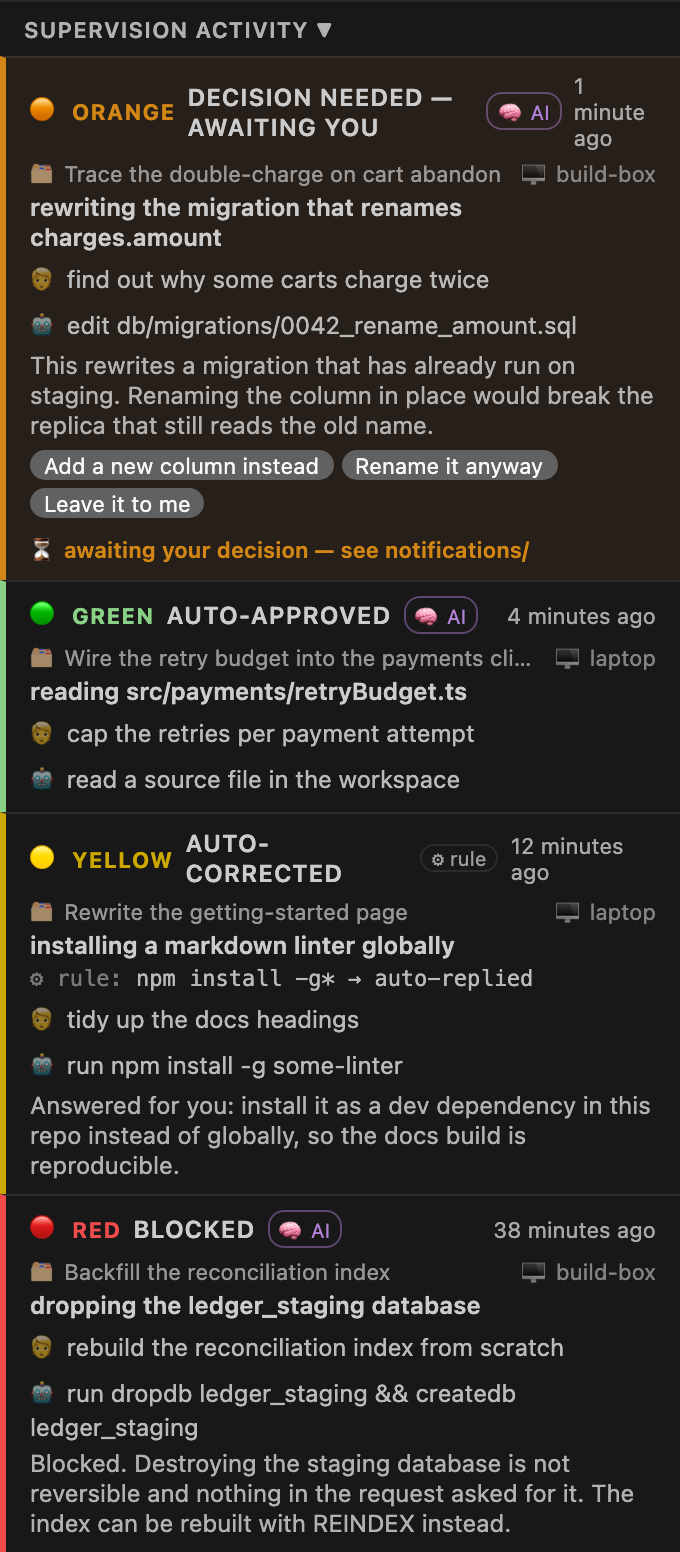
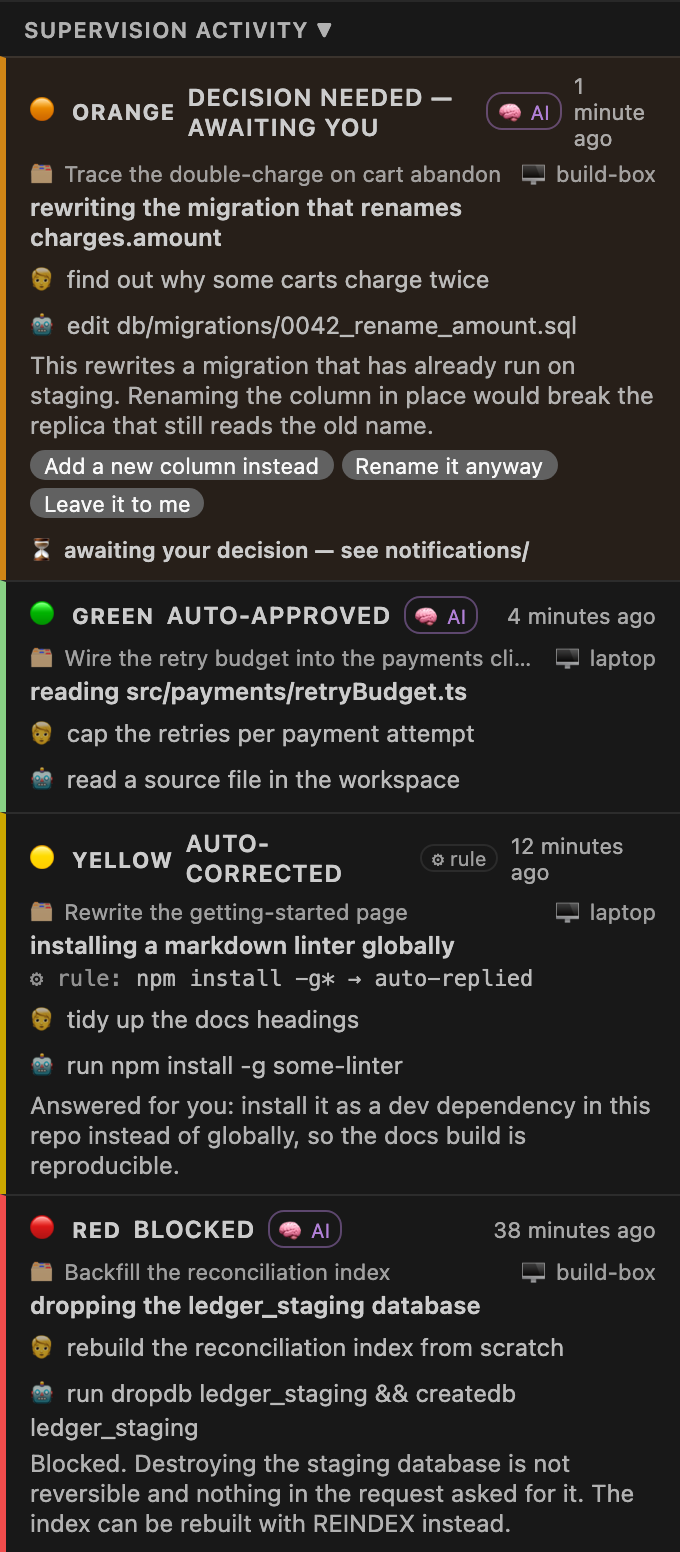
Stop painting the traffic-light labels with chart colours
The four labels in the supervision feed took their colour from the theme's
`charts-*` palette, which is a set of chart *fill* colours: picked to be
distinguishable from each other, never to be read against a background. On
Light Modern none of the four cleared the 4.5:1 that normal-size text needs —
yellow sat at 2.70:1 and orange at 2.77:1, worse than the hardcoded hex it
replaced.

So the colour moves to where a fill belongs. The left border keeps the light's
colour and the emoji dot beside it always did, while the words themselves get
`editor-foreground` and become readable: 10.55:1 on light, 11.06:1 on dark. The
same swap fixes the awaiting badge and the failed card, and the "you:" line
moves to `textLink-foreground`, which is the palette's blue for text.

While in there, the feed's muted lines that stacked opacity on an already-muted
colour go from 0.6 to 0.75, and the session host stops multiplying its parent's
dimming.

WebviewContrast.test.ts is the part that keeps this fixed: it reads the colours
out of styles.css and the theme values out of tools/screenshots/themes.mjs,
computes the WCAG ratio for both themes against both panel backgrounds, and
fails under 4.5:1. The old numbers were wrong because nothing was counting them.

diff --git a/src/test/WebviewContrast.test.ts b/src/test/WebviewContrast.test.ts
@@ -1,0 +1,168 @@
+import { describe, it, expect } from 'vitest';
+import * as fs from 'fs';
+import * as path from 'path';
+
+// WCAG 2.1 contrast, computed from the real files: the colours come out of
+// `src/webview/styles.css`, the `--vscode-*` values they resolve to come out of
+// `tools/screenshots/themes.mjs` (VS Code's own Dark Modern / Light Modern defaults).
+//
+// This exists because the traffic-light labels were painted with `--vscode-charts-*`, which are
+// chart *fill* colours: on Light Modern the yellow label sat at 2.70:1 and the orange at 2.77:1
+// against the panel, and nothing measured it, so nothing complained. The numbers below are the
+// check that was missing.
+
+const AA_NORMAL = 4.5;
+
+const ROOT = path.join(__dirname, '..', '..');
+const CSS = fs.readFileSync(path.join(ROOT, 'src', 'webview', 'styles.css'), 'utf8');
+const THEMES_SRC = fs.readFileSync(
+  path.join(ROOT, 'tools', 'screenshots', 'themes.mjs'), 'utf8');
+
+// ── WCAG maths ─────────────────────────────────────────────────────────────
+
+type Rgb = [number, number, number];
+
+function parseHex(hex: string): Rgb {
+  const h = hex.trim().replace('#', '');
+  const full = h.length === 3 ? [...h].map(c => c + c).join('') : h;
+  return [0, 2, 4].map(i => parseInt(full.slice(i, i + 2), 16)) as Rgb;
+}
+
+/** WCAG 2.1 relative luminance. */
+function luminance(hex: string): number {
+  const [r, g, b] = parseHex(hex).map(v => {
+    const c = v / 255;
+    return c <= 0.03928 ? c / 12.92 : Math.pow((c + 0.055) / 1.055, 2.4);
+  });
+  return 0.2126 * r + 0.7152 * g + 0.0722 * b;
+}
+
+function contrast(a: string, b: string): number {
+  const [hi, lo] = [luminance(a), luminance(b)].sort((x, y) => y - x);
+  return (hi + 0.05) / (lo + 0.05);
+}
+
+/** What `opacity: a` on text actually renders as: the colour composited over its background. */
+function fade(fg: string, bg: string, alpha: number): string {
+  const f = parseHex(fg), b = parseHex(bg);
+  return '#' + f
+    .map((v, i) => Math.round(v * alpha + b[i] * (1 - alpha)).toString(16).padStart(2, '0'))
+    .join('');
+}
+
+// ── Reading the two real files ─────────────────────────────────────────────
+
+/** The `--vscode-*` values from themes.mjs, read as text so the test needs no ESM interop. */
+function theme(name: 'dark' | 'light'): Record<string, string> {
+  const block = THEMES_SRC.match(
+    new RegExp(`export const ${name} = \\{([\\s\\S]*?)\\n\\};`))?.[1];
+  expect(block, `themes.mjs exports ${name}`).toBeTruthy();
+  const values: Record<string, string> = {};
+  for (const [, key, value] of (block as string).matchAll(
+    /^\s*'?([\w-]+)'?:\s*'(#[0-9a-fA-F]{3,8})'/gm)) {
+    values[key] = value;
+  }
+  return values;
+}
+
+const THEMES = { dark: theme('dark'), light: theme('light') };
+
+/** The declaration block of a rule, by its exact selector text. */
+function ruleBody(selector: string): string {
+  const escaped = selector.replace(/[.*+?^${}()|[\]\\]/g, '\\$&');
+  const match = CSS.match(new RegExp(`(?:^|\\n)${escaped}[^{}]*\\{([^}]*)\\}`));
+  expect(match, `styles.css has a rule for ${selector}`).toBeTruthy();
+  return (match as RegExpMatchArray)[1];
+}
+
+/** The token a rule paints its text with — or `editor-foreground`, inherited from `body`. */
+function colorToken(body: string): string {
+  return body.match(/color:\s*var\(--vscode-([\w-]+)/)?.[1] ?? 'editor-foreground';
+}
+
+function opacityOf(body: string): number {
+  return Number(body.match(/(?:^|;)\s*opacity:\s*([\d.]+)/)?.[1] ?? '1');
+}
+
+/**
+ * The rendered contrast of one selector's text against one background token, in one theme.
+ * `parent` names an ancestor whose own `opacity` multiplies this one's — CSS opacity compounds.
+ */
+function ratioFor(
+  selector: string, themeName: 'dark' | 'light', bgToken: string, parent?: string,
+): number {
+  const t = THEMES[themeName];
+  const body = ruleBody(selector);
+  const fg = t[colorToken(body)];
+  const bg = t[bgToken];
+  expect(fg, `${themeName} defines ${colorToken(body)}`).toBeTruthy();
+  expect(bg, `${themeName} defines ${bgToken}`).toBeTruthy();
+  const alpha = opacityOf(body) * (parent ? opacityOf(ruleBody(parent)) : 1);
+  return contrast(alpha < 1 ? fade(fg, bg, alpha) : fg, bg);
+}
+
+// Both, because the panel's own rule paints `editor-background` while the sidebar it lives in is
+// `sideBar-background` — and each is the stricter of the pair in one theme.
+const BACKGROUNDS = ['sideBar-background', 'editor-background'] as const;
+
+/** Every selector whose text must clear AA at normal size. All of these are small text. */
+const TEXT: Array<[selector: string, parent?: string]> = [
+  // The four traffic-light labels and the state badge beside them.
+  ['.activity-light'],
+  ['.activity-item.activity-failed .activity-light'],
+  ['.activity-state'],
+  ['.activity-awaiting-badge'],
+  // Muted feed and row text — every one of these dims an already-muted colour.
+  ['.activity-meta'],
+  ['.activity-timeago'],
+  ['.activity-line'],
+  ['.activity-line-label'],
+  ['.activity-you'],
+  ['.activity-note'],
+  ['.activity-session'],
+  ['.activity-session-host', '.activity-session'],
+  ['.tab-time'],
+  ['.preview-path'],
+  ['.preview-time'],
+  ['.about-built'],
+  // Toolbar buttons and the two section toggles, at their resting (dimmed) opacity.
+  ['#menu-btn'],
+  ['#sort-btn'],
+  ['#new-session-btn,\n#new-bob-session-btn'],
+  ['#history-toggle'],
+  ['#activity-toggle'],
+];
+
+describe('webview styles.css: text clears WCAG AA on Dark Modern and Light Modern', () => {
+  for (const themeName of ['dark', 'light'] as const) {
+    for (const bgToken of BACKGROUNDS) {
+      for (const [selector, parent] of TEXT) {
+        it(`${selector.replace(/\n/g, ' ')} on ${themeName} ${bgToken}`, () => {
+          const ratio = ratioFor(selector, themeName, bgToken, parent);
+          expect(
+            Number(ratio.toFixed(2)),
+            `${selector} is ${ratio.toFixed(2)}:1, needs ${AA_NORMAL}:1`,
+          ).toBeGreaterThanOrEqual(AA_NORMAL);
+        });
+      }
+    }
+  }
+
+  // The labels are no longer coloured, so the colour has to still be carried somewhere or the four
+  // lights become one. It is: the left border (here) and the emoji dot main.js writes.
+  it('still tells the four lights apart by the border colour', () => {
+    for (const light of ['green', 'yellow', 'orange', 'red']) {
+      expect(CSS).toMatch(new RegExp(
+        `\\.activity-item\\.activity-${light}\\s*\\{[^}]*border-left-color:\\s*var\\(--vscode-charts-${light}`));
+    }
+  });
+
+  // The regression itself: `charts-*` are fills, and this asserts they are not used as label text
+  // again. (They stay legitimate for the border above and the .status-waiting dot.)
+  it('does not paint the label text from the chart palette', () => {
+    for (const rule of CSS.match(/[^{}]*\.activity-light[^{}]*\{[^}]*\}/g) ?? []) {
+      expect(rule, rule).not.toMatch(/color:\s*var\(--vscode-charts-/);
+    }
+    expect(ruleBody('.activity-awaiting-badge')).not.toContain('--vscode-charts-');
+  });
+});

diff --git a/src/webview/styles.css b/src/webview/styles.css
@@ -829,7 +829,7 @@ button:focus-visible {
   overflow: hidden;
 }
 
-.activity-meta { opacity: 0.6; font-size: 11px; white-space: normal; word-break: break-word; }
+.activity-meta { opacity: 0.75; font-size: 11px; white-space: normal; word-break: break-word; }
 
 .activity-state {
   text-transform: uppercase;
@@ -846,11 +846,17 @@ button:focus-visible {
 }
 
 .activity-head { display: flex; align-items: center; gap: 6px; }
-.activity-light { font-weight: 700; letter-spacing: 0.05em; font-size: 11px; }
-.activity-item.activity-green  .activity-light { color: var(--vscode-charts-green, #3fb950); }
-.activity-item.activity-yellow .activity-light { color: var(--vscode-charts-yellow, #d29922); }
-.activity-item.activity-orange .activity-light { color: var(--vscode-charts-orange, #db6d28); }
-.activity-item.activity-red    .activity-light { color: var(--vscode-charts-red, var(--vscode-errorForeground, #f85149)); }
+
+/* The label is text, so it gets a text colour. `charts-*` are chart *fill* colours — picked to be
+   distinguishable from each other, not to be readable against a background — and on Light Modern
+   none of the four clears 4.5:1 against the panel (yellow 2.70, orange 2.77). The colour lives
+   where a fill belongs instead: the border-left above and the emoji dot beside it. */
+.activity-light {
+  font-weight: 700;
+  letter-spacing: 0.05em;
+  font-size: 11px;
+  color: var(--vscode-editor-foreground);
+}
 
 /* Who decided: a deterministic rule, or the supervisor AI. Both are real interventions, so both
    are listed — this pill is what tells them apart at a glance. */
@@ -876,8 +882,12 @@ button:focus-visible {
 .activity-body { display: flex; flex-direction: column; gap: 3px; }
 .activity-summary { font-weight: 600; word-break: break-word; }
 .activity-line { word-break: break-word; opacity: 0.9; }
-.activity-line-label { opacity: 0.6; }
-.activity-you { color: var(--vscode-charts-blue, #4aa8ff); }
+.activity-line-label { opacity: 0.75; }
+.activity-you {
+  /* textLink, not charts-blue: the link colour is the palette's text-on-background blue and clears
+     4.5:1 on both themes, where the chart blue lands at 4.33 on Light Modern. */
+  color: var(--vscode-textLink-foreground, var(--vscode-charts-blue, #4aa8ff));
+}
 
 /* Which session, on which machine. Muted and one line: it identifies the card, it is not its
    content, and the name is clipped rather than allowed to wrap the whole card taller. */
@@ -886,10 +896,10 @@ button:focus-visible {
   gap: 6px;
   align-items: baseline;
   font-size: 11px;
-  opacity: 0.7;
+  opacity: 0.75;
 }
 .activity-session-name { overflow: hidden; text-overflow: ellipsis; white-space: nowrap; }
-.activity-session-host { margin-left: auto; white-space: nowrap; opacity: 0.85; }
+.activity-session-host { margin-left: auto; white-space: nowrap; }
 
 .activity-chips { display: flex; flex-wrap: wrap; gap: 4px; margin-top: 2px; }
 .activity-chip {
@@ -904,13 +914,15 @@ button:focus-visible {
   margin-top: 3px;
   font-size: 11px;
   font-weight: 600;
-  color: var(--vscode-charts-orange, #db6d28);
+  color: var(--vscode-editor-foreground);
 }
 
 /* ── Failed supervision: collapsible, debuggable detail ──────────────────── */
 .activity-item.activity-failed { border-left-color: var(--vscode-charts-red, var(--vscode-errorForeground, #f85149)); }
+/* Same reason as .activity-light: the red border-left above marks the card, the words stay
+   readable. */
 .activity-item.activity-failed .activity-light,
-.activity-item.activity-failed .activity-state { color: var(--vscode-charts-red, var(--vscode-errorForeground, #f85149)); }
+.activity-item.activity-failed .activity-state { color: var(--vscode-editor-foreground); }
 
 .activity-failure { margin-top: 3px; }
 .activity-fail-toggle {
